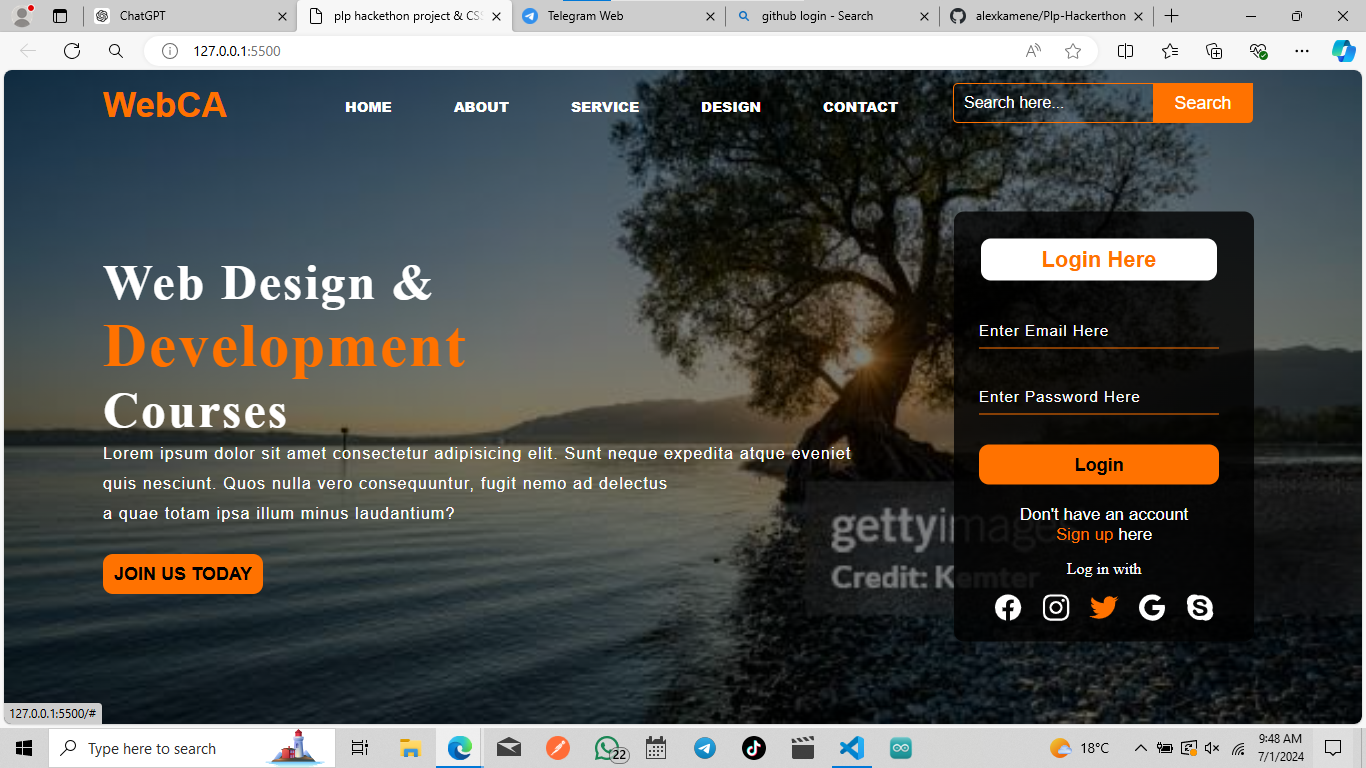
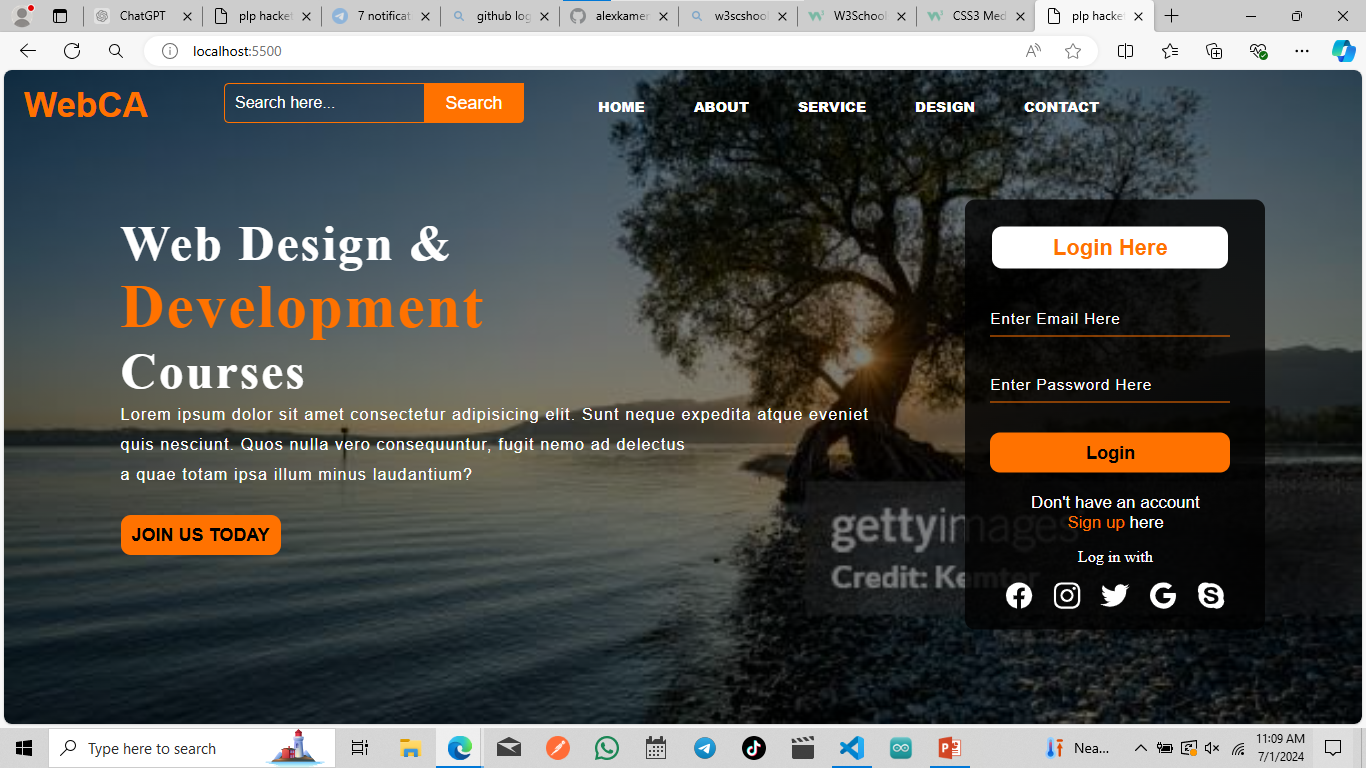
impliment responsiveness

diff --git a/style.css b/style.css
@@ -5,20 +5,23 @@
 
 .main{
     width: 100%;
+    height: 100vh;
     background: linear-gradient(to top, rgba(0,0,0,0.5)50%,rgba(0,0,0,0.5)50%), url(1.jpeg);
     background-position: center;
     background-size: cover;
-    height: 100vh;
 }
 
 .navbar{
-    width: 1200px;
+    
     height: 75px;
     margin: auto;
+    display: flex;
+    
+    flex-direction: row;
 }
 .icon{
     width: 200px;
-    float: left;
+    /* float: left; */
     height: 70px;
 }
 
@@ -27,28 +30,30 @@
     font-size: 35px;
     font-family: Arial;
     padding-left: 20px;
-    float: left;
+    /* float: left; */
     padding-top: 10px;
     margin-top: 5px
 }
 
 .menu{
     width: 400px;
-    float: left;
+    /* float: left; */
     height: 70px;
     font-family:Arial;
+    display: flex;
 }
 
 ul{
     float: left;
     display: flex;
-    justify-content: center;
-    align-items: center;
+    /* flex-direction: row; */
+    flex-wrap: nowrap;
+    
 }
 
 ul li{
     list-style: none;
-    margin-left: 62px;
+    margin-left: 49px;
     margin-top: 27px;
     font-size: 14px;
   
@@ -68,9 +73,9 @@ ul li a:hover{
 }
 
 .search{
-    width: 330px;
+    width: 325px;
     float: left;
-    margin-left: 270px;
+    margin-left: 20px;
 }
 
 .srch{
@@ -117,11 +122,12 @@ ul li a:hover{
 }
 
 .content{
-    width: 1200px;
-    height: auto;
-    margin: auto;
+    display: flex;
+    flex-direction: row;
+    flex-wrap: wrap;
+    justify-content: space-evenly;
     color: #fff;
-    position: relative;
+    /* position: relative; */
 }
 
 .content .par{
@@ -173,13 +179,11 @@ ul li a:hover{
 .form{
     width: 250px;
     height: 380px;
-    background: linear-gradient(to top, rgba(0,0,0,0.8)50%,rgba(0,0,0,0.8)50%);
-    position: absolute;
-    top: -20px;
-    left: 871px;
-    transform: translate(0%,-5%);
+    background: linear-gradient(to top, rgba(0, 0, 0, 0.8) 50%, rgba(0, 0, 0, 0.8) 50%);
+    transform: translate(0%, -5%);
     border-radius: 10px;
     padding: 25px;
+    margin-top: 76px;
 }
 
 .form h2{
@@ -267,4 +271,14 @@ ul li a:hover{
 }
 .icons ion-icon:hover{
     color: #ff7200;
+}
+@media screen and (max-width: 992px){
+
+    ul li{
+        font-size: 11px;
+        margin-left: 20px;
+    }
+    .par{
+        font-size: 12px;
+    }
 }

diff --git a/index.html b/index.html
@@ -14,7 +14,10 @@
             <div class="icon">
                 <h2 class="logo">WebCA</h2>
             </div>
-
+            <div class="search">
+                <input class="srch" type="search" name="" placeholder="Search here...">
+                <a href="#"> <button class="btn">Search</button></a>
+            </div>
             <div class="menu">
                 <ul>
                     <li><a href="#">HOME</a></li>
@@ -25,10 +28,7 @@
                 </ul>
             </div>
 
-            <div class="search">
-                <input class="srch" type="search" name="" placeholder="Search here...">
-                <a href="#"> <button class="btn">Search</button></a>
-            </div>
+            
 
         </div> 
         <div class="content">
@@ -60,7 +60,13 @@
 
                 </div>
                     </div>
-                </div>
+        <div class="my page">
+            <div class="left">
+                
+        </div>
+        <div class="right">
+            <div class="card">
+                
         </div>
     </div>
     <script src="https://unpkg.com/ionicons@5.4.0/dist/ionicons.js"></script>
